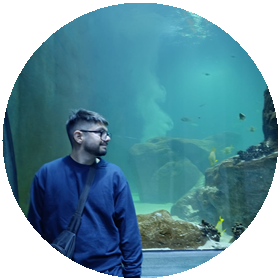
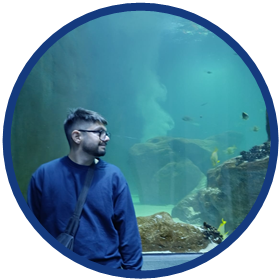
docs: mejorar badges y avatares del equipo

diff --git a/README.md b/README.md
@@ -306,20 +306,20 @@ En esta etapa, el aporte más valioso es **participar en la decisión de arquite
 
 <table align="center">
   <tr>
-    <td align="center" width="250">
+    <td align="center" valign="top" width="250">
       <img src="docs/img/maximiliano-round.png" width="140" height="140" alt="Maximiliano Soria"><br><br>
       <strong>Maximiliano Soria</strong><br>
       <sub>Arquitecto de Software · Backend Java + Spring</sub><br>
       <a href="https://www.linkedin.com/in/soriamaximilianorodrigo/">LinkedIn</a> · <a href="https://github.com/MaximilianoRodrigoSoria">GitHub</a>
     </td>
-    <td align="center" width="250">
+    <td align="center" valign="top" width="250">
       <img src="docs/img/gerardo-round.png" width="140" height="140" alt="Gerard"><br><br>
       <strong>Gerard</strong><br>
       <sub>Desarrollador · Arquitectura</sub><br>
       <a href="https://github.com/gerardo-lopez-dev">GitHub</a>
       <a href="https://www.linkedin.com/in/gerardo-alexis-lopez-mongelos-4a04a51b1/">LinkedIn</a>
     </td>
-    <td align="center" width="250">
+    <td align="center" valign="top" width="250">
       <a href="https://www.linkedin.com/in/yoelenriquez/">
         <img src="docs/img/yoel-round.png" width="140" height="140" alt="Yoel Enriquez">
       </a><br><br>

diff --git a/docs/alternativas-stack.md b/docs/alternativas-stack.md
@@ -6,6 +6,17 @@
 > núcleo deben acordar qué optimizar primero: simplicidad local, velocidad,
 > familiaridad del equipo o capacidad de crecer como servicio.
 
+<p align="center">
+  <a href="#1-python--sqlite-fts5--sqlite-vec"><img src="img/stack-python-sqlite.svg" width="190" alt="Python y SQLite"></a>
+  <a href="#2-typescript--nodejs--lancedb"><img src="img/stack-typescript-lancedb.svg" width="190" alt="TypeScript y LanceDB"></a>
+  <a href="#3-rust--tantivy--qdrant-edge"><img src="img/stack-rust-tantivy.svg" width="190" alt="Rust y Tantivy"></a>
+</p>
+<p align="center">
+  <a href="#4-kotlinjvm--apache-lucene"><img src="img/stack-kotlin-lucene.svg" width="190" alt="Kotlin y Lucene"></a>
+  <a href="#5-go--bleve--qdrant"><img src="img/stack-go-bleve.svg" width="190" alt="Go y Bleve"></a>
+  <a href="#6-python--fastapi--postgresql--pgvector"><img src="img/stack-python-pgvector.svg" width="190" alt="Python y pgvector"></a>
+</p>
+
 ## Objetivo común
 
 Las seis alternativas buscan construir el mismo producto:
